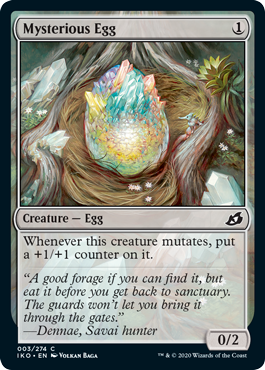
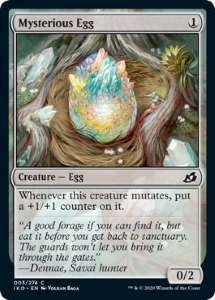
Respected

diff --git a/final_project/index.html b/final_project/index.html
@@ -66,11 +66,11 @@
             </section>
             <div class="example">
                 <picture>
-                    <img class="card_1" src="images/cubwarden.png" alt="">
-                    <img class="card_2" src="images/Mysterious-Egg.png" alt="">
-                    <img class="card_3" src="images/auricorn.png" alt="">
-                    <img class="card_4" src="images/shoreshark.png" alt="">
-                    <img class="card_5" src="images/pollywog.png" alt="">
+                    <img class="card_1" src="images/cubwarden-web.png" alt="">
+                    <img class="card_2" src="images/Mysterious-Egg-web.png" alt="">
+                    <img class="card_3" src="images/auricorn-web.png" alt="">
+                    <img class="card_4" src="images/shoreshark-web.png" alt="">
+                    <img class="card_5" src="images/pollywog-web.png" alt="">
                 </picture>
             </div>
             <section class="call_to_action info_boxes links">
